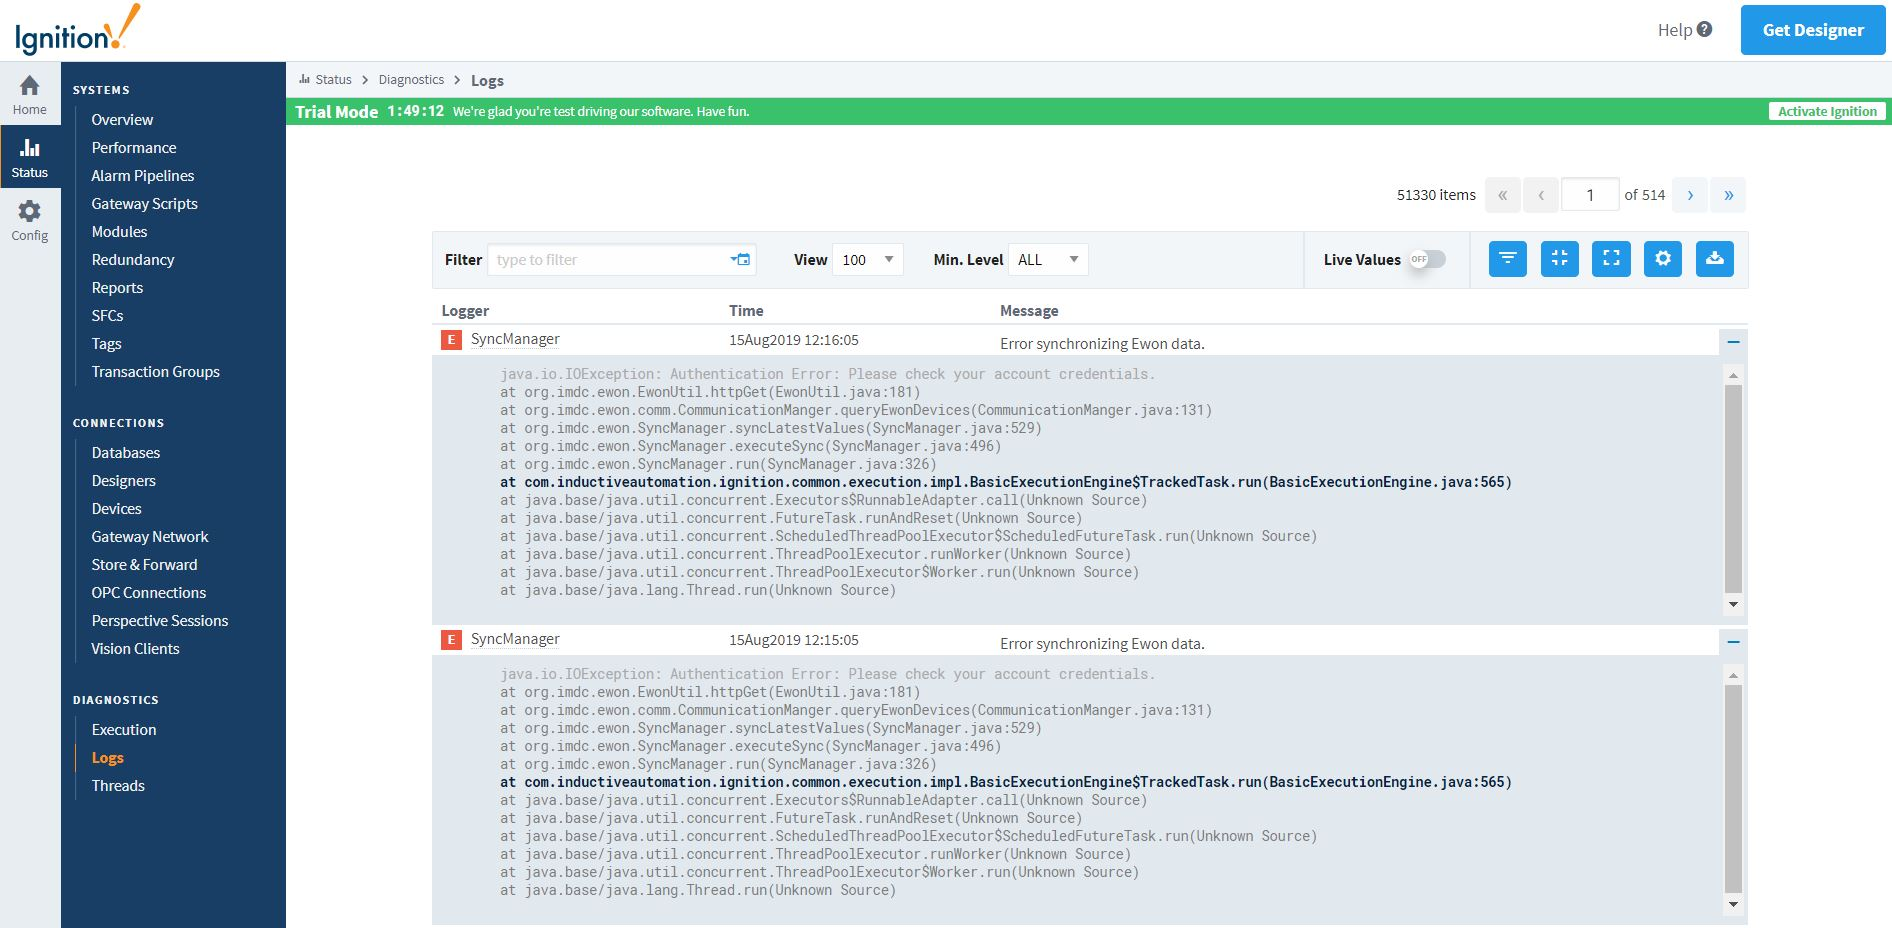
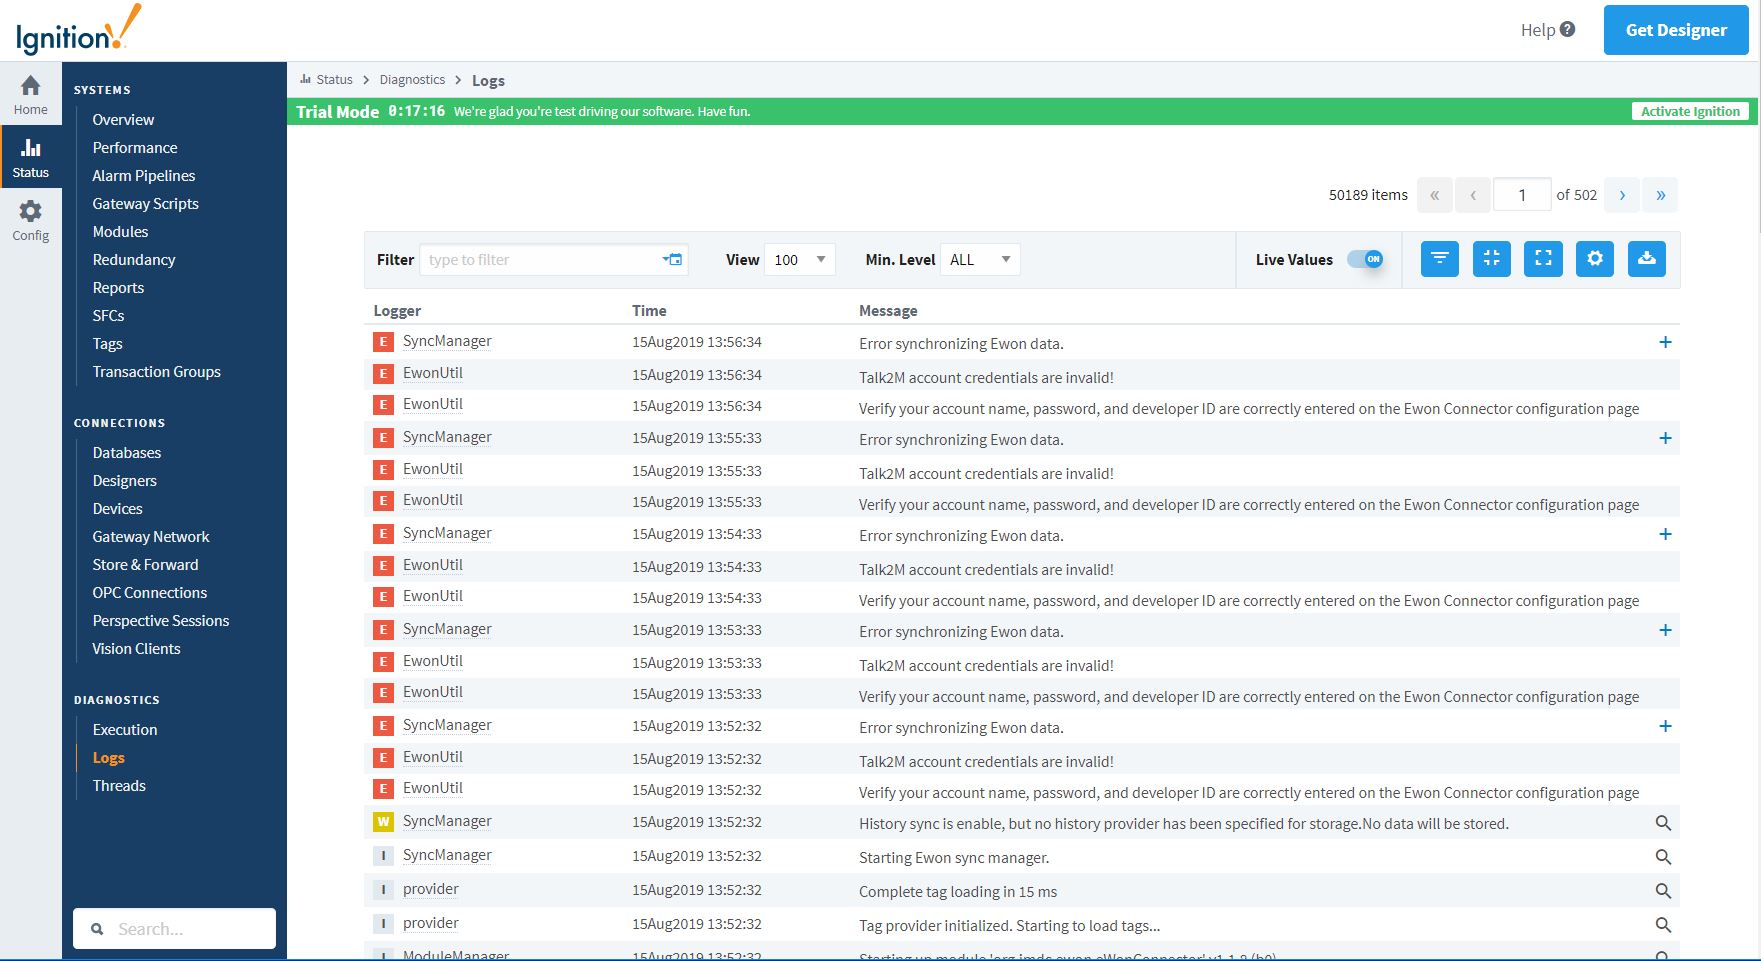
Added additional authentication log msg
Added an addition log message to indicate account credentials are
invalid. This makes is more obvious to a user that their username,
password, or devid is wrong.

diff --git a/eWonConnector-gateway/src/main/java/org/imdc/ewon/EwonUtil.java b/eWonConnector-gateway/src/main/java/org/imdc/ewon/EwonUtil.java
@@ -25,6 +25,8 @@ import java.util.Map;
 import java.util.Map.Entry;
 import java.util.TimeZone;
 import java.text.DateFormat;
+import org.slf4j.Logger;
+import org.slf4j.LoggerFactory;
 
 /**
  * Various utilities used across EwonConnector to facilitate functionality
@@ -39,6 +41,11 @@ public class EwonUtil {
     * Default timeout for HTTP connection reading
     */
    private static final int defaultReadTimeout = 60000;
+
+   /**
+    * Log handler
+    */
+   private static Logger logger = LoggerFactory.getLogger("Ewon.EwonUtil");
 
    /**
     * Trust manager used for HTTP connections. Note: Bypasses trust verification.
@@ -178,6 +185,9 @@ public class EwonUtil {
 
          // Generate a "cleaned" exception based on the response code.
          if (httpResponse == HTTP_UNAUTHORIZED) {
+            logger.error("Verify your account name, password, and developer ID are correctly"
+                  + " entered on the Ewon Connector configuration page");
+            logger.error("Talk2M account credentials are invalid!");
             throw new IOException("Authentication Error: Please check your account credentials.");
          } else if (httpResponse == HTTP_NOT_FOUND) {
             throw new IOException("Network Error: Ewon services not found. Check network link.");
